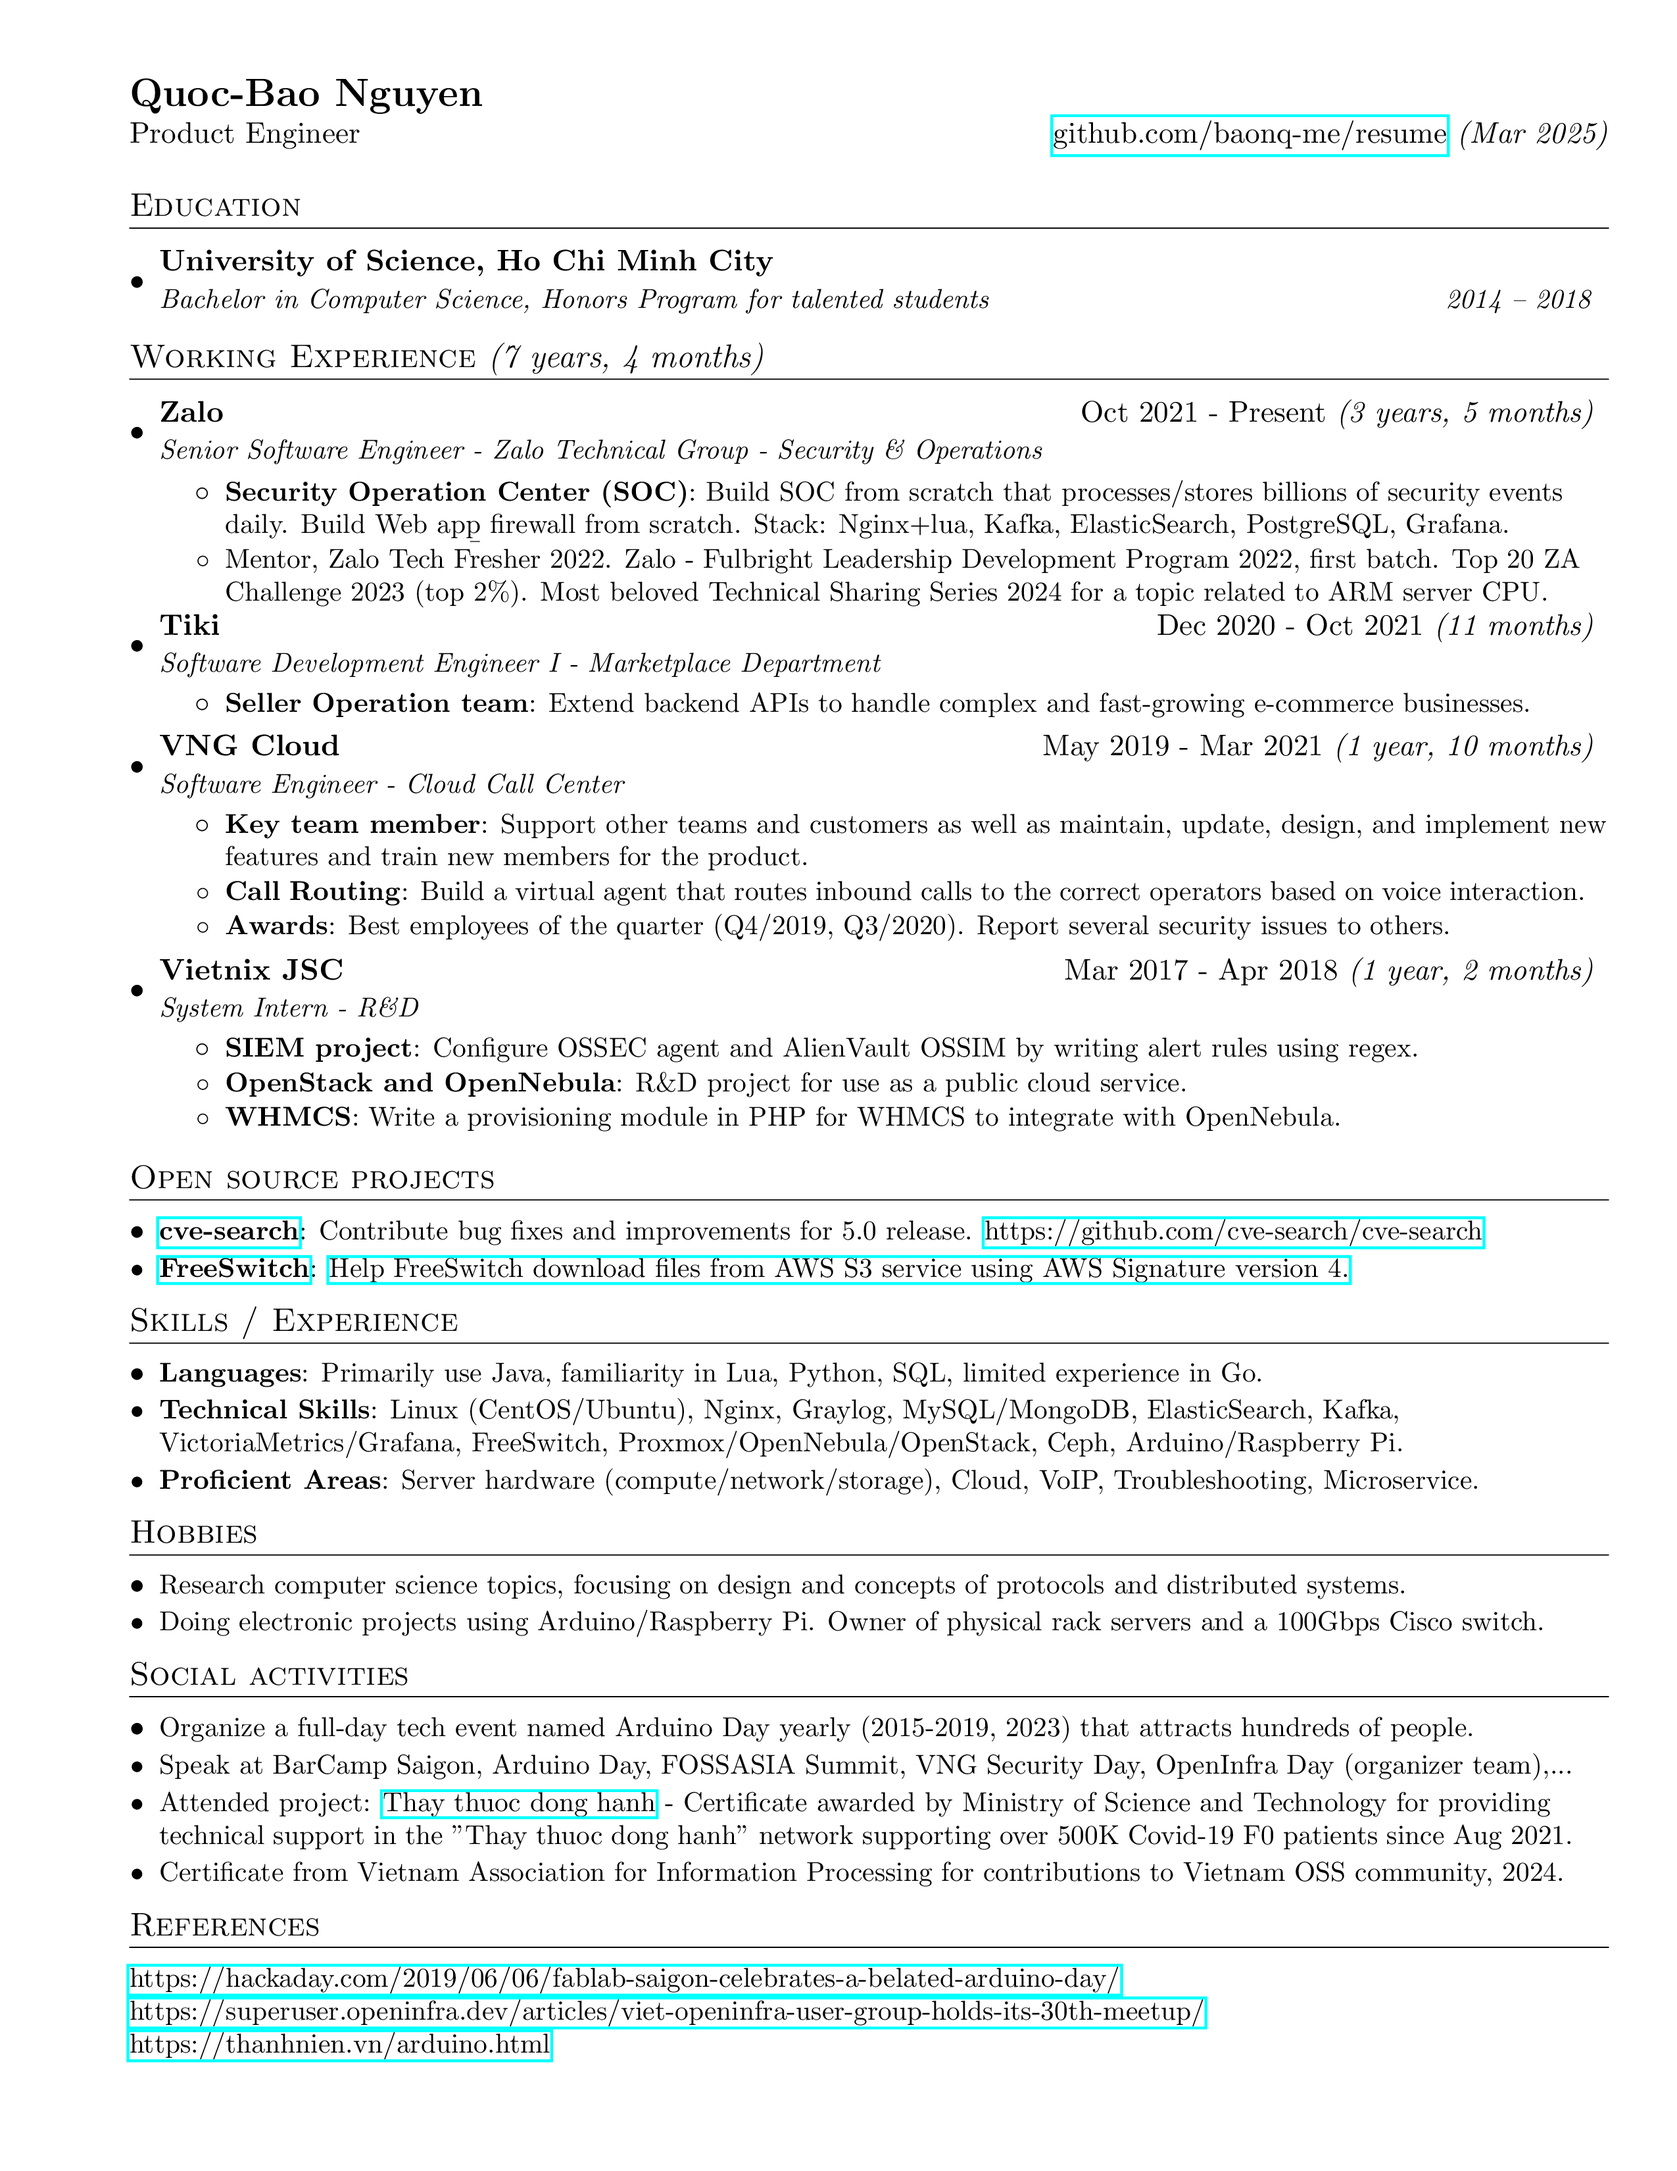
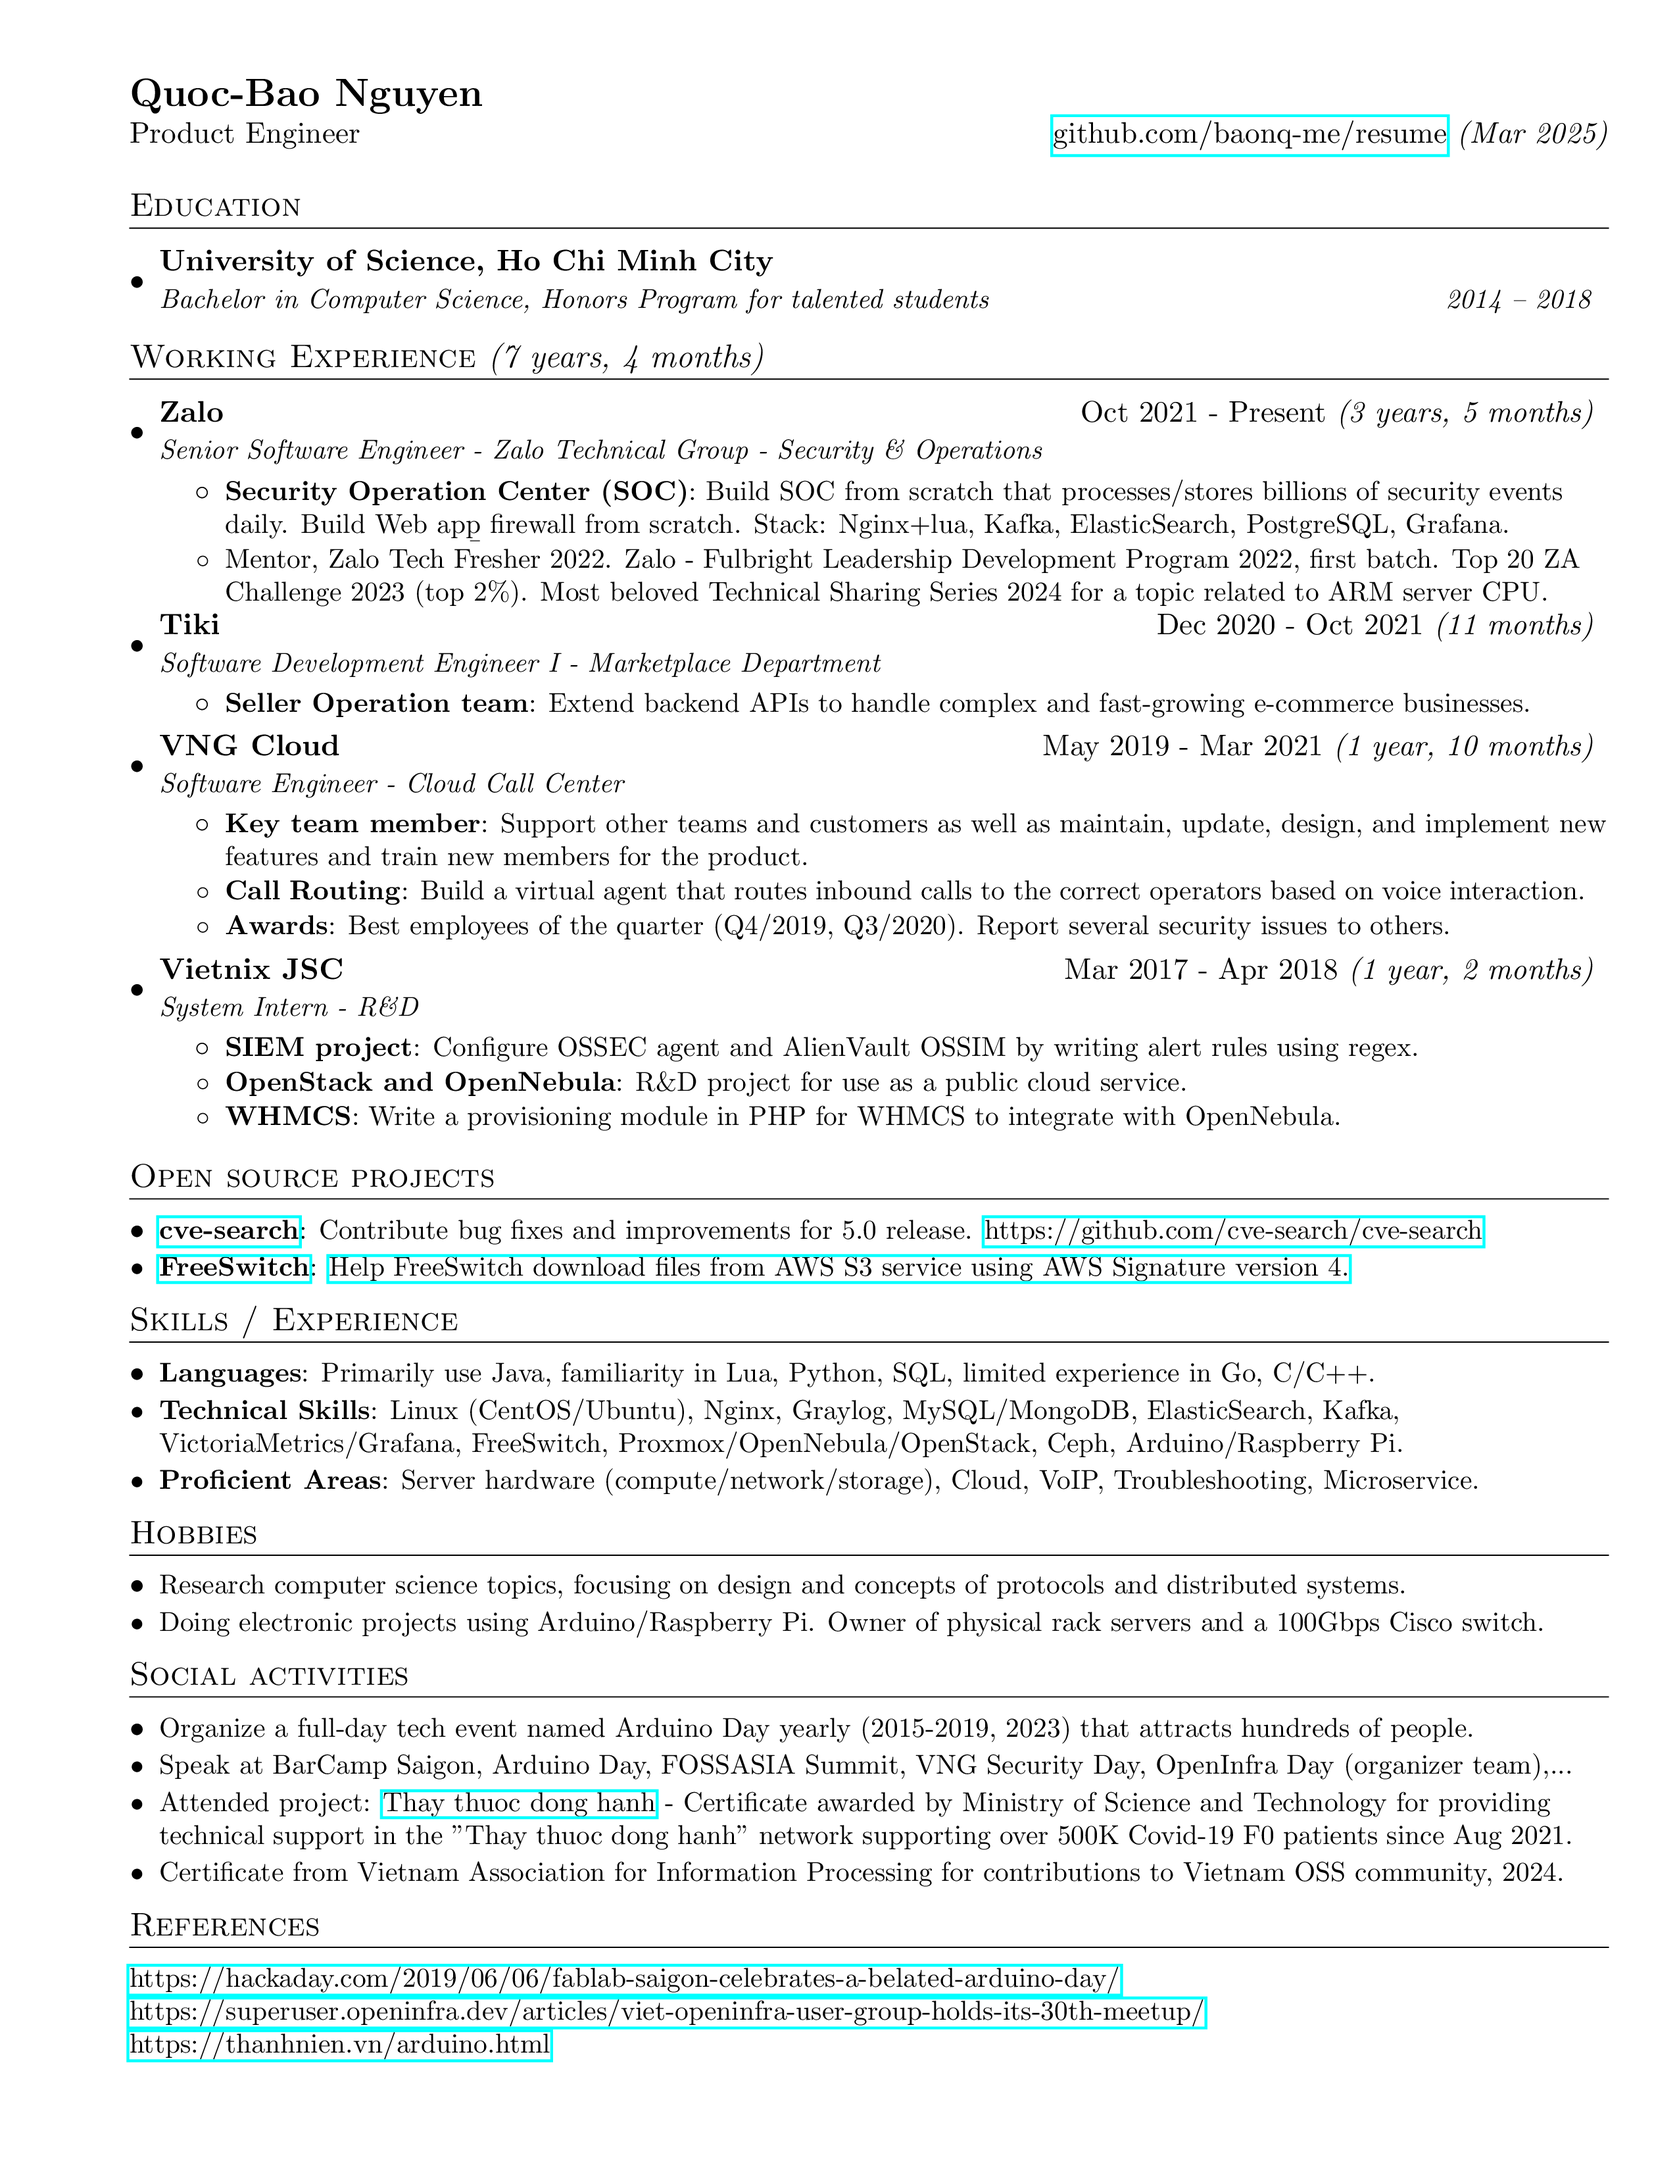
Add C/C++

diff --git a/QuocBao-Nguyen-CV.tex b/QuocBao-Nguyen-CV.tex
@@ -184,7 +184,7 @@
 \section{Skills / Experience}
   \resumeSubHeadingListStart
     \resumeSubItem{Languages}
-      {Primarily use Java, familiarity in Lua, Python, SQL, limited experience in Go.}
+      {Primarily use Java, familiarity in Lua, Python, SQL, limited experience in Go, C/C++.}
     \resumeSubItem{Technical Skills}
       {Linux (CentOS/Ubuntu), Nginx, Graylog, MySQL/MongoDB, ElasticSearch, Kafka, VictoriaMetrics/Grafana, FreeSwitch, Proxmox/OpenNebula/OpenStack, Ceph, Arduino/Raspberry Pi.}
     \resumeSubItem{Proficient Areas}
